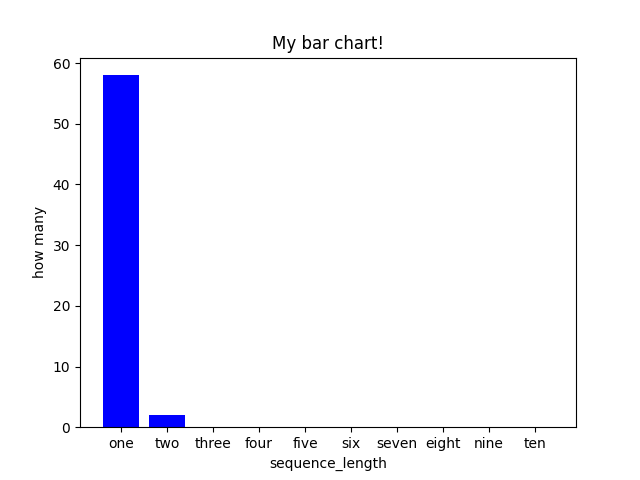
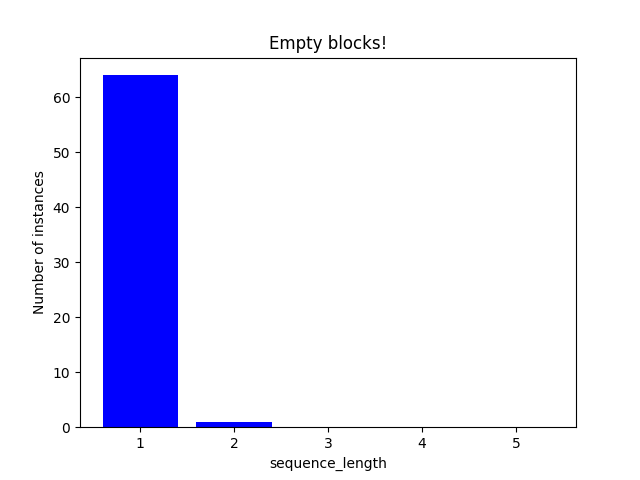
updates

diff --git a/site/index.html b/site/index.html
@@ -75,7 +75,12 @@
     <div id="toc-collapse" class="navbar-collapse collapse card bg-secondary">
         <ul class="nav flex-column">
             
-            <li class="nav-item" data-level="1"><a href="#ethsec-ethereum-monitor" class="nav-link">EthSec: Ethereum monitor</a>
+            <li class="nav-item" data-level="1"><a href="#mempooldos-detecting-attacks-of-ethereum-mempool-dos" class="nav-link">MempoolDoS: Detecting attacks of Ethereum mempool DoS</a>
+              <ul class="nav flex-column">
+              </ul>
+            </li>
+            
+            <li class="nav-item" data-level="1"><a href="#found-empty-blocks" class="nav-link">Found empty blocks</a>
               <ul class="nav flex-column">
               </ul>
             </li>
@@ -84,10 +89,44 @@
 </div></div>
                     <div class="col-md-9" role="main">
 
-<h1 id="ethsec-ethereum-monitor"><span class="label" style="background-color: white; color: rgb(0, 153, 51);border: 1px solid rgb(0, 153, 51);border-radius: 5px;">EthSec</span>: Ethereum monitor</h1>
-<p>We will build a security monitor to expose attack instances.<br/>
-Here is a picture. <br/>
-<img alt="Screenshot" src="img/Deter_plot.png" /></p></div>
+<h1 id="mempooldos-detecting-attacks-of-ethereum-mempool-dos"><span class="label" style="background-color: white; color: rgb(0, 153, 51);border: 1px solid rgb(0, 153, 51);border-radius: 5px;">MempoolDoS</span>: Detecting attacks of Ethereum mempool DoS</h1>
+<h1 id="found-empty-blocks">Found empty blocks</h1>
+<p>In the last 10000 blocks, we found XXX empty blocks whose Gas utilization is less than 0.1%.</p>
+<p>Recent empty blocks: </p>
+<table>
+<thead>
+<tr>
+<th>Height</th>
+<th>Gas utilization</th>
+<th>Web link</th>
+</tr>
+</thead>
+<tbody>
+<tr>
+<td>123</td>
+<td>456</td>
+<td>6789</td>
+</tr>
+</tbody>
+</table>
+<p>Recent consecutive empty blocks: </p>
+<table>
+<thead>
+<tr>
+<th>Height</th>
+<th>Gas utilization</th>
+<th>Web link</th>
+</tr>
+</thead>
+<tbody>
+<tr>
+<td>123</td>
+<td>456</td>
+<td>6789</td>
+</tr>
+</tbody>
+</table>
+<p><img alt="Screenshot" src="img/Deter_plot.png" /></p></div>
             </div>
         </div>
 
@@ -170,6 +209,6 @@ Here is a picture. <br/>
 </html>
 
 <!--
-MkDocs version : 1.3.1
-Build Date UTC : 2022-10-14 20:46:15.391768+00:00
+MkDocs version : 1.2.3
+Build Date UTC : 2022-10-17 19:10:30.584866+00:00
 -->

diff --git a/site/search/main.js b/site/search/main.js
@@ -21,15 +21,8 @@ function joinUrl (base, path) {
   return base + "/" + path;
 }
 
-function escapeHtml (value) {
-  return value.replace(/&/g, '&amp;')
-    .replace(/"/g, '&quot;')
-    .replace(/</g, '&lt;')
-    .replace(/>/g, '&gt;');
-}
-
 function formatResult (location, title, summary) {
-  return '<article><h3><a href="' + joinUrl(base_url, location) + '">'+ escapeHtml(title) + '</a></h3><p>' + escapeHtml(summary) +'</p></article>';
+  return '<article><h3><a href="' + joinUrl(base_url, location) + '">'+ title + '</a></h3><p>' + summary +'</p></article>';
 }
 
 function displayResults (results) {

diff --git a/site/css/base.css b/site/css/base.css
@@ -209,7 +209,7 @@ footer {
     padding-left: .5em;
 }
 
-h1:hover .headerlink, h2:hover .headerlink, h3:hover .headerlink, h4:hover .headerlink, h5:hover .headerlink, h6:hover .headerlink {
+h1:hover .headerlink, h2:hover .headerlink, h3:hover .headerlink, h4:hover .headerlink, h5:hover .headerlink, h6:hover .headerlink{
     display:inline-block;
 }
 

diff --git a/docs/index.md b/docs/index.md
@@ -1,9 +1,24 @@
+#<span class="label" style="background-color: white; color: rgb(0, 153, 51);border: 1px solid rgb(0, 153, 51);border-radius: 5px;">MempoolDoS</span>: Detecting attacks of Ethereum mempool DoS
 
-#<span class="label" style="background-color: white; color: rgb(0, 153, 51);border: 1px solid rgb(0, 153, 51);border-radius: 5px;">EthSec</span>: Ethereum monitor
+Found empty blocks
+===
 
-We will build a security monitor to expose attack instances.<br/>
-Here is the bar chart of the empty blocks on Ethererum. We analyzed [[Etherscan Blocks](https://etherscan.io/blocks)]<br/>
-And found in lasted 10000 blocks, there are 67 almost empty blocks whose gas used is less than 0.1%. <br/>
-In particular, the occurrence of two consecutive empty blocks also occurred once.<br/>
+In the last 10000 blocks, we found XXX empty blocks whose Gas utilization is less than 0.1%.
+
+Recent empty blocks: 
+
+| Height | Gas utilization | Web link |
+| --- | --- | --- | 
+| 123 | 456 | 6789|
+
+Recent consecutive empty blocks: 
+
+| Height | Gas utilization | Web link |
+| --- | --- | --- | 
+| 123 | 456 | 6789|
+
 
 ![Screenshot](img/Deter_plot.png)
+
+
+
